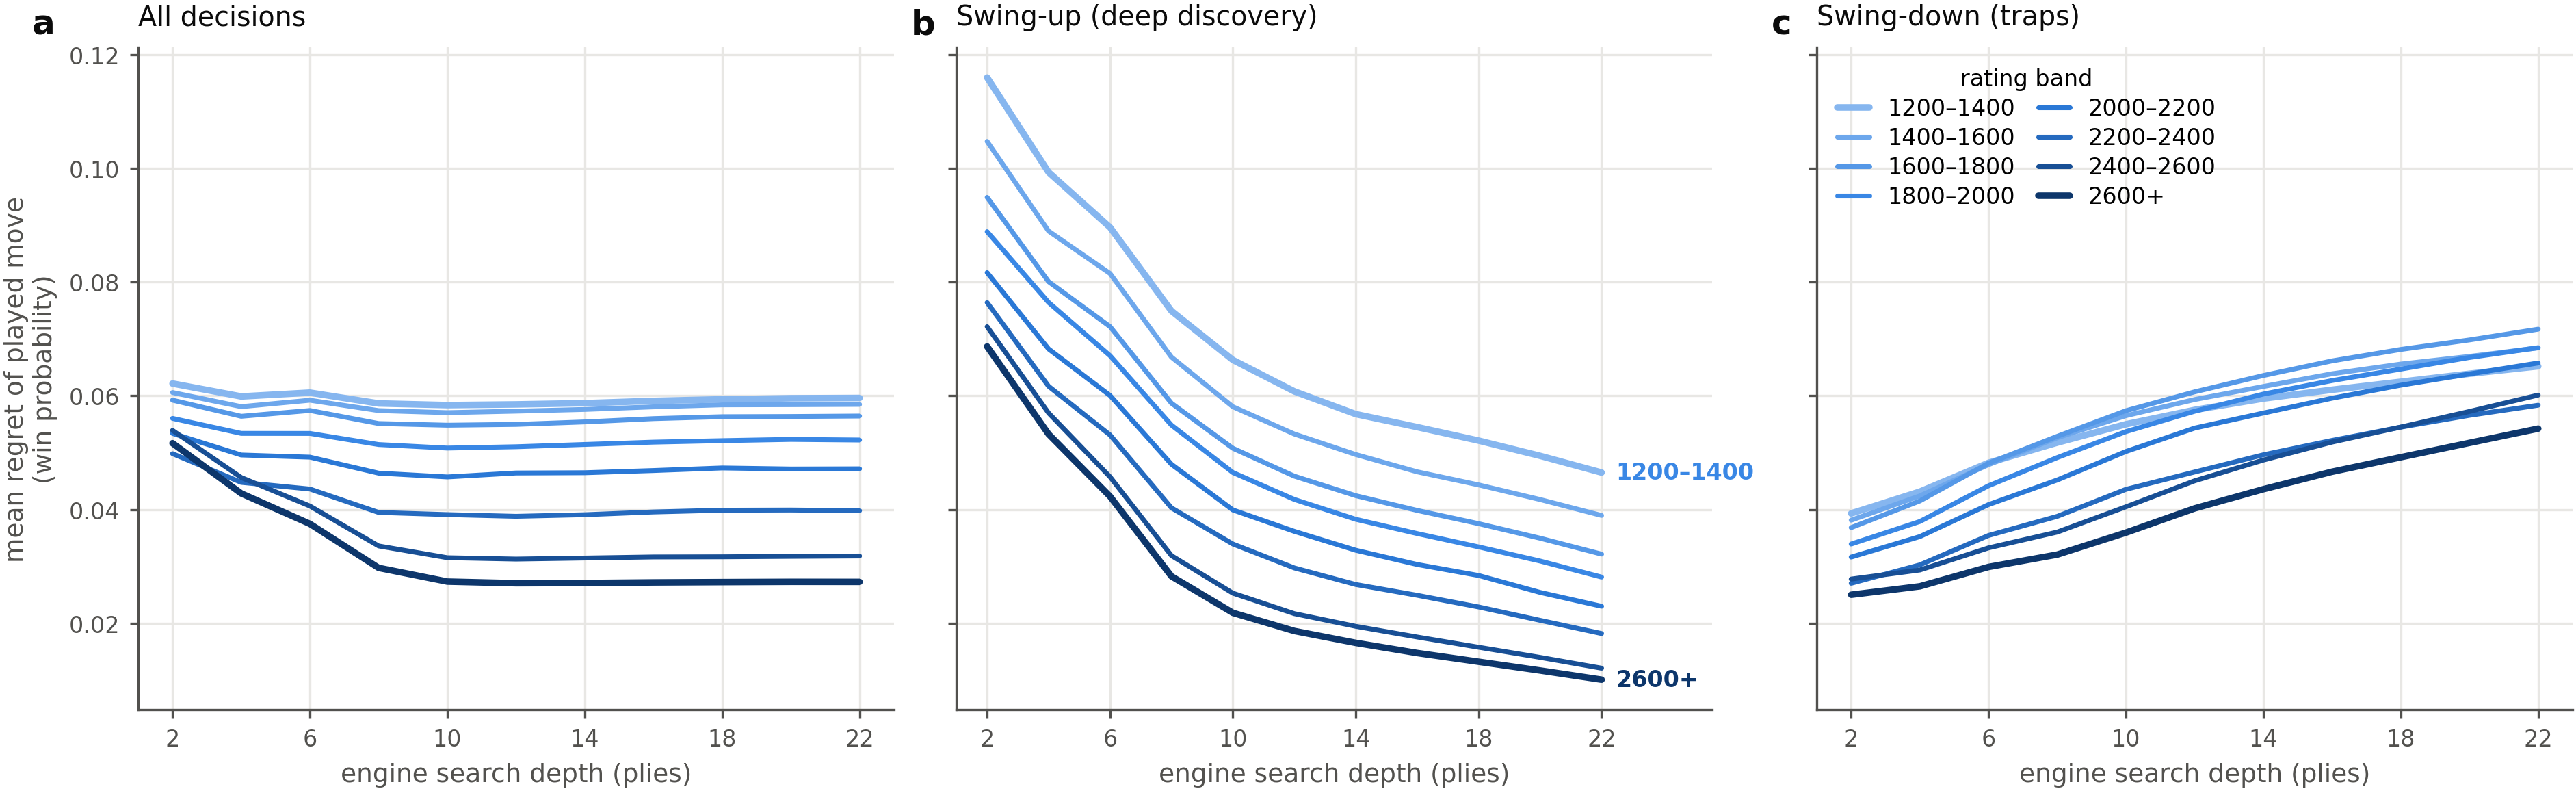
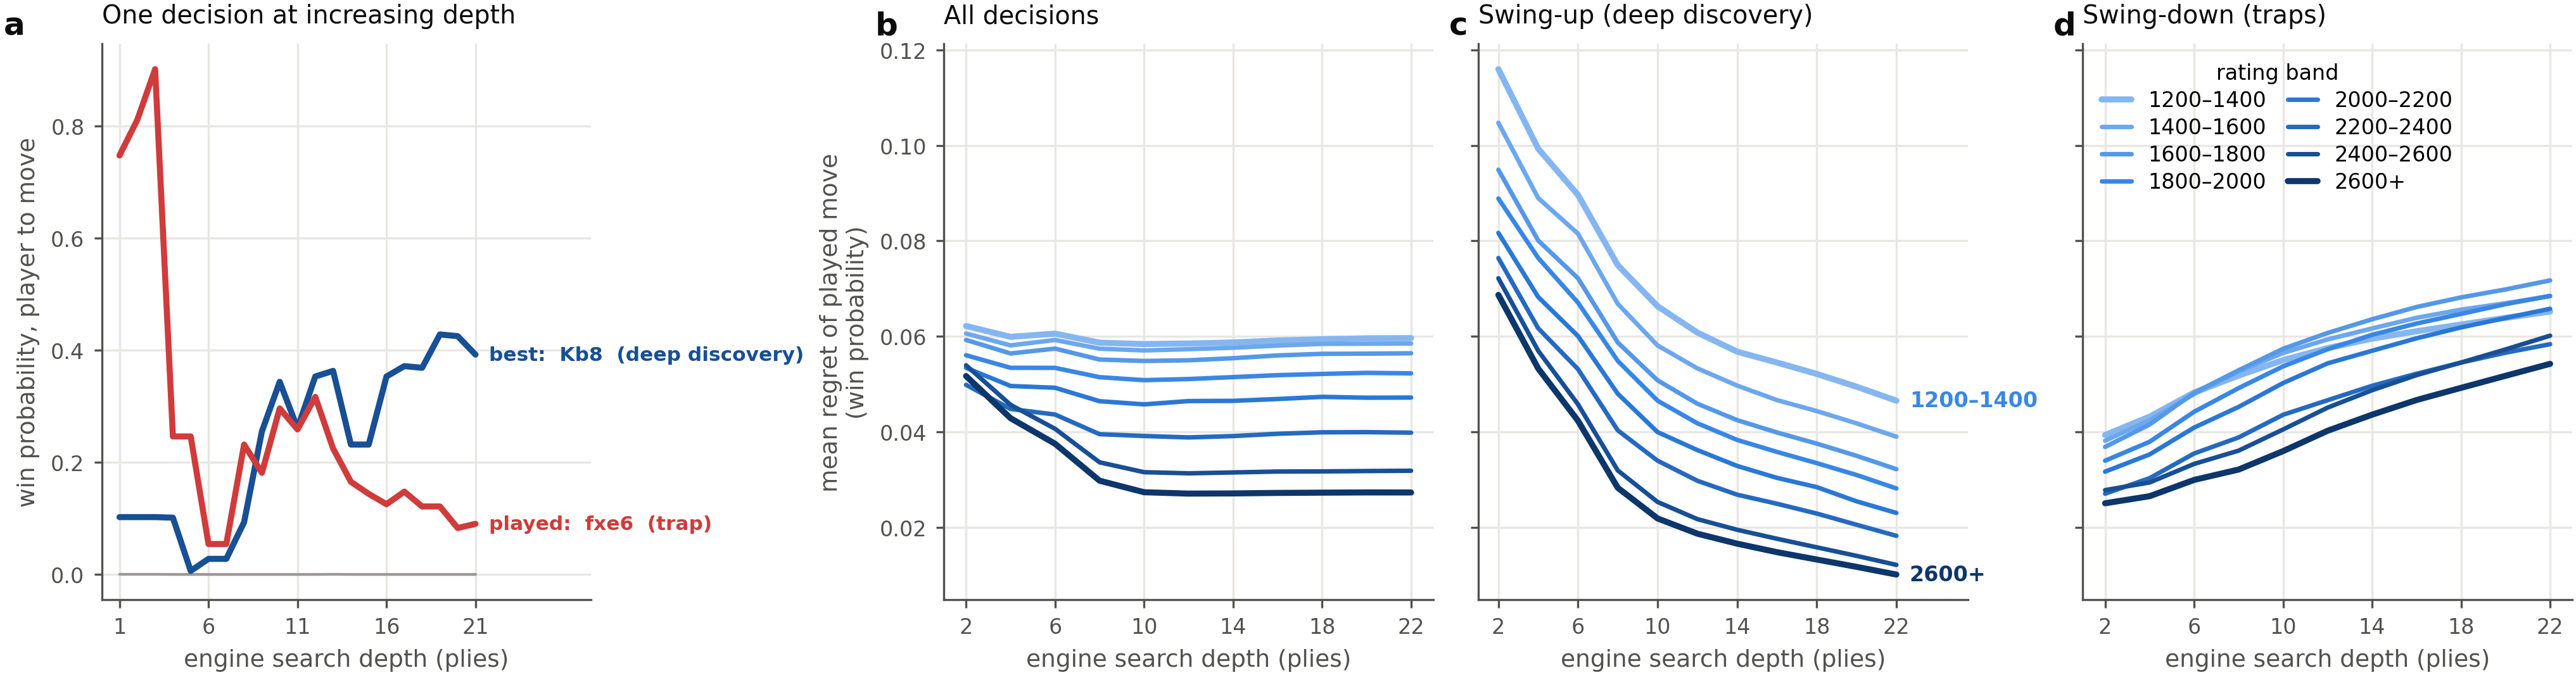
Address co-author review (K.W. Regan): depth/swing primer, worked-example panel, explicit time-control definitions, python-chess credit, co-author ORCID
- Results now open with a short primer on iterative deepening, evaluation
  trajectories, and the formal swing definition, keyed to a new Fig 1a worked
  example (a real 1910-rated decision: fxe6 trap vs the deep resource Kb8),
  selected deterministically from the primary month (criteria in analyze.py).
- Fig 1 is now 4 panels (a worked example; b-d re-lettered regret fans).
- Methods states the Lichess time-class thresholds (est. duration = base + 40x
  increment; bullet <3 min, blitz 3-8, rapid 8-25, classical >=25) and discloses
  within-class format pooling (e.g. 1+0 vs 1+1 bullet).
- python-chess (v1.11) credited as the UCI bridge and board representation.
- ORCID added for K.W. Regan.

diff --git a/src/analyze.py b/src/analyze.py
@@ -250,9 +250,42 @@ def band_of(elo):
     return -1
 
 
+# Worked example for Fig1a. Chosen deterministically from the primary month: among classical
+# decisions (Elo 1800-2200, plies 20-60, 4-6 candidates), the position maximising
+# trap_drop(played) + discovery_rise(best alt) + shallow_seduction gap (all >= thresholds
+# 0.10/0.10/0.03); see the selection sweep in the repo history. Winner: a 1910-rated player
+# recaptures a bishop with fxe6 -- excellent at shallow depth, refuted (Qxe6+) deeper --
+# while the quiet Kb8 reveals its worth only at depth.
+EXAMPLE_POS = "dvqfQ20I:39"
+EXAMPLE_LABELS = {"f7e6": ("played:  fxe6  (trap)", "#d03b3b"),
+                  "c8b8": ("best:  Kb8  (deep discovery)", "#184f95")}
+
+
+def _worked_example_panel(cfg, axi):
+    """Fig1a: one real decision's candidate win-prob trajectories across engine depth."""
+    dt = pd.read_parquet(cfg["data"]["depth_traj"])
+    ex = dt[dt.pos_id == EXAMPLE_POS]
+    for mv, grp in ex.groupby("move"):
+        grp = grp.sort_values("depth")
+        if mv in EXAMPLE_LABELS:
+            lab, col = EXAMPLE_LABELS[mv]
+            axi.plot(grp.depth, grp.winprob, color=col, lw=2.3, zorder=4)
+            end = grp.iloc[-1]
+            figstyle.direct_label(axi, end.depth, end.winprob, lab, col, dx=5,
+                                  fontsize=7.5, weight="bold")
+        else:
+            axi.plot(grp.depth, grp.winprob, color=figstyle.MUTED, lw=1.0, alpha=0.45, zorder=2)
+    axi.set_xlabel("engine search depth (plies)")
+    axi.set_ylabel("win probability, player to move")
+    axi.set_title("One decision at increasing depth")
+    axi.set_xticks([1, 6, 11, 16, 21])
+    axi.set_xlim(right=27.5)                 # room for the direct labels
+    return ex.pos_id.nunique()
+
+
 def e1(cfg):
-    """Fig1: played-move regret across depth, by rating band and swing class.
-    Straight from train.pt (delta[n, y[n], :] is the played move's depth-resolved regret)."""
+    """Fig1: (a) worked example; (b-d) played-move regret across depth, by rating band and
+    swing class. b-d straight from train.pt (delta[n, y[n], :] is the played move's regret)."""
     os.makedirs(FIGDIR, exist_ok=True)
     blob, delta, logq, mask, dmask, ctx, y = load(cfg)
     meta = blob["meta"]
@@ -263,12 +296,14 @@ def e1(cfg):
     pr = delta[np.arange(len(y)), y].numpy()        # [N, D] played-move regret on the grid
     bands = np.array([band_of(e) for e in elo])
     band_names = [f"{lo}–{hi}" for lo, hi in BANDS[:-1]] + ["2600+"]
-    fig, ax = plt.subplots(1, 3, figsize=(12.6, 3.9), sharey=True, constrained_layout=True)
+    fig, ax = plt.subplots(1, 4, figsize=(13.6, 3.6), constrained_layout=True)
+    _worked_example_panel(cfg, ax[0])
+    figstyle.panel_label(ax[0], "a", dx=-0.20)
     panels = [("All decisions", np.ones(len(y), bool)),
               ("Swing-up (deep discovery)", sw == "up"),
               ("Swing-down (traps)", sw == "down")]
     print(f"E1 (slow controls, classical+rapid; n={int(slow.sum()):,}):")
-    for pi, ((title, msw), axi, lab) in enumerate(zip(panels, ax, "abc")):
+    for pi, ((title, msw), axi, lab) in enumerate(zip(panels, ax[1:], "bcd")):
         m = msw & slow
         for bi in range(len(BANDS)):
             sel = (bands == bi) & m
@@ -277,7 +312,7 @@ def e1(cfg):
                 curve = pr[sel].mean(0)
                 axi.plot(grid, curve, color=figstyle.BAND_RAMP[bi],
                          lw=2.3 if extreme else 1.7, label=band_names[bi], zorder=3)
-                if pi == 1 and extreme:      # direct-label the ramp extremes once, panel b
+                if pi == 1 and extreme:      # direct-label the ramp extremes once, panel c
                     figstyle.direct_label(axi, grid[-1], curve[-1], band_names[bi],
                                           figstyle.BAND_RAMP[max(bi, 3)], dx=5,
                                           weight="bold")
@@ -289,9 +324,15 @@ def e1(cfg):
                        for bi in range(len(BANDS))])
         print(f"  {title:28s} deep-regret by band: " + " ".join(f"{v:.3f}" for v in bm if not np.isnan(v))
               + f"   (spread={np.nanmax(bm)-np.nanmin(bm):.3f})")
-    ax[1].set_xlim(right=grid[-1] + 3.6)     # room for the direct labels
-    ax[0].set_ylabel("mean regret of played move\n(win probability)")
-    leg = ax[2].legend(title="rating band", ncol=2, loc="upper left",
+    # regret panels share one scale (worked-example panel a has its own, win-prob)
+    ylo = min(a.get_ylim()[0] for a in ax[1:]); yhi = max(a.get_ylim()[1] for a in ax[1:])
+    for a in ax[1:]:
+        a.set_ylim(ylo, yhi)
+    for a in ax[2:]:
+        a.tick_params(labelleft=False)
+    ax[2].set_xlim(right=grid[-1] + 3.6)     # room for the direct labels
+    ax[1].set_ylabel("mean regret of played move\n(win probability)")
+    leg = ax[3].legend(title="rating band", ncol=2, loc="upper left",
                        handlelength=1.4, columnspacing=1.0, labelspacing=0.3)
     leg.get_title().set_fontsize(8)
     p = f"{FIGDIR}/fig1_error_vs_depth.png"; figstyle.save(fig, p)

diff --git a/paper/manuscript.tex b/paper/manuscript.tex
@@ -12,7 +12,7 @@
 \title[Depth of human reasoning from errors]{Errors reveal the depth of human reasoning}
 
 \author*[1]{\fnm{Tamal} \sur{Maharaj}\,\orcidlink{0009-0001-5835-8967}}\email{[email redacted]}
-\author[2]{\fnm{Kenneth W.} \sur{Regan}}\email{[email redacted]}
+\author[2]{\fnm{Kenneth W.} \sur{Regan}\,\orcidlink{0000-0002-7382-7178}}\email{[email redacted]}
 
 \affil[1]{\orgname{Ramakrishna Mission Vivekananda Educational and Research Institute},
 \orgaddress{\city{Belur Math}, \state{West Bengal}, \country{India}}}
@@ -92,19 +92,36 @@ final, registered confirmation succeeded on all three primary hypotheses.
 
 \section{Results}
 
+\paragraph{Reading a decision at increasing depth.}
+A chess engine evaluates by \emph{iterative deepening}: it scores every candidate move
+looking one ply (half-move) ahead, then two, and so on, revising each move's evaluation at
+every new horizon. A move's value is therefore not a number but a \emph{trajectory} across
+depth, and that trajectory is our raw material. Figure~\ref{fig:f1}a shows a real decision
+from the data. A 1910-rated player, offered a bishop, recaptured it (fxe6): at shallow depth
+the capture looks close to winning, but from about eight plies the refutation comes into
+view and its value collapses. The quiet king move Kb8 shows the opposite signature---
+unimpressive at a glance, it proves best once the search runs deep. We call the signed area
+between a move's regret trajectory and its full-depth endpoint the move's \emph{swing},
+$\mathrm{sw}(m)=\sum_d\!\left(\delta_{m,d}-\delta_{m,D}\right)$ (Methods): positive
+(\emph{swing-up}, a deep discovery) when a move looks worse shallow than it truly is, negative
+(\emph{swing-down}, a trap) when shallow search flatters it. A position's total swing,
+$\sum_m\lvert\mathrm{sw}(m)\rvert$, measures how much the picture changes with depth---how
+much deliberation the position can reward. The depth at which the played move's flaw or worth
+becomes visible is the signal everything below is built on.
+
 \paragraph{Skill lives in the errors, not the successes.}
 Our primary sample comprises 922{,}412 decisions by 16{,}328 players rated 1200 to 2600+,
 drawn from online play and from elite over-the-board tournaments (Methods). At shallow engine
 depth, the average error of the played move barely distinguishes a club player from a
-grandmaster; the gap opens only as the engine looks deeper (Fig.~\ref{fig:f1}a). Because
+grandmaster; the gap opens only as the engine looks deeper (Fig.~\ref{fig:f1}b). Because
 online ratings are pool-specific---a separate rating per time control---we read every
 skill comparison \emph{within} a control: at full depth, mean regret of the played move falls
 with rating in classical (0.059 at the weakest band to 0.028 at the strongest), in rapid, and
 in blitz, but stays nearly flat in bullet (0.070 to 0.055), where no one has time to search
 deeply. The separating information, moreover, is not spread evenly across mistakes. It is
-concentrated in \emph{deep-discovery} decisions---``swing-up'' moves whose worth only emerges
-at depth---which fan out cleanly by rating (Fig.~\ref{fig:f1}b), while trap-like
-``swing-down'' decisions bunch the rating bands together (Fig.~\ref{fig:f1}c). A single
+concentrated in \emph{deep-discovery} decisions---swing-up moves whose worth only emerges
+at depth---which fan out cleanly by rating (Fig.~\ref{fig:f1}c), while trap-like
+swing-down decisions bunch the rating bands together (Fig.~\ref{fig:f1}d). A single
 swing-up decision carries roughly twice the rating information of a swing-down one
 (pool-normalised single-decision $R^2\approx0.006$ versus $0.003$), an asymmetry that
 recurs in every replication month below. What matters is not how large an error is, but at
@@ -278,7 +295,12 @@ staged value estimates in planning tasks---but that generality remains to be dem
 The primary dataset comprises 922{,}412 decisions by 16{,}328 players: online games from the
 Lichess open database (month 2025-09), balanced-sampled across rating bands (200-point bins,
 1200--2600+) and time classes (bullet, blitz, rapid, classical), with per-move clock times
-retained; plus an elite over-the-board stratum of 371{,}279 decisions from 1{,}261 titled
+retained. Time classes follow Lichess's convention, by estimated game duration (initial time
+plus $40\times$ the increment): bullet under 3 minutes, blitz 3--8, rapid 8--25, and
+classical 25 minutes or more. Each class therefore pools nearby formats---1+0 and 1+1 bullet,
+for instance, both fall in the bullet class despite an appreciable difference in effective
+time---so residual within-class heterogeneity remains, and every skill comparison in this
+paper is made within class, never across; plus an elite over-the-board stratum of 371{,}279 decisions from 1{,}261 titled
 players in broadcast tournament games, which supports the individual-profile case study.
 Replication datasets---Lichess 2026-05 (179{,}360 decisions), 2026-04 (168{,}654), and the
 prospective 2026-06 (203{,}248 decisions, 3{,}707 players, 113{,}421 classical)---were each
@@ -409,7 +431,9 @@ primary hypotheses.
 
 \paragraph{Reproducibility.}
 Stockfish~18 (shared NNUE), Threads~1 per process across many single-thread engines, Hash
-256\,MB, $D{=}21$, $K{=}9$, $2\times10^{8}$-node cap; Maia-3 (\texttt{maia3-79m}); depth grid
+256\,MB, $D{=}21$, $K{=}9$, $2\times10^{8}$-node cap, driven through the \texttt{python-chess}
+UCI bridge (v1.11), which also provides all board and move representation; Maia-3
+(\texttt{maia3-79m}); depth grid
 $\{2,4,\dots,22\}$; sampling seed 17 and 60 games per (rating band $\times$ time class) cell
 in every month; train/test split by player; model fits seeded. Strata and the primary
 interaction were fixed before held-out evaluation; post-hoc choices are labelled exploratory.
@@ -451,11 +475,15 @@ require ethical approval.
 
 \begin{figure}[h]\centering\includegraphics[width=\linewidth]{figs/fig1_error_vs_depth.png}
 \caption{\textbf{Skill separates only at depth, and mostly on deep-discovery moves.}
+\textbf{a}, A worked example: candidate-move win probabilities across engine search depth for
+one real decision (grey, other candidates). The played capture fxe6 looks nearly winning at
+shallow depth and collapses once the refutation surfaces (a \emph{trap}, swing-down); the
+quiet Kb8 reveals its worth only deep (a \emph{deep discovery}, swing-up). \textbf{b--d},
 Mean regret of the played move across engine search depth, by rating band (light to dark
 blue: 1200--1400 up to 2600+), within the slow controls (classical and rapid).
-\textbf{a}, All decisions: rating bands are nearly indistinguishable at shallow depth and fan
-apart as the engine looks deeper. \textbf{b}, Swing-up (deep-discovery) decisions: a clean,
-well-ordered rating fan---the rating signal concentrates here. \textbf{c}, Swing-down (trap)
+\textbf{b}, All decisions: rating bands are nearly indistinguishable at shallow depth and fan
+apart as the engine looks deeper. \textbf{c}, Swing-up (deep-discovery) decisions: a clean,
+well-ordered rating fan---the rating signal concentrates here. \textbf{d}, Swing-down (trap)
 decisions: bands bunch and overlap, separating roughly half as much. The rating axis spans
 online play (lower bands) to elite over-the-board play (upper bands).}
 \label{fig:f1}\end{figure}